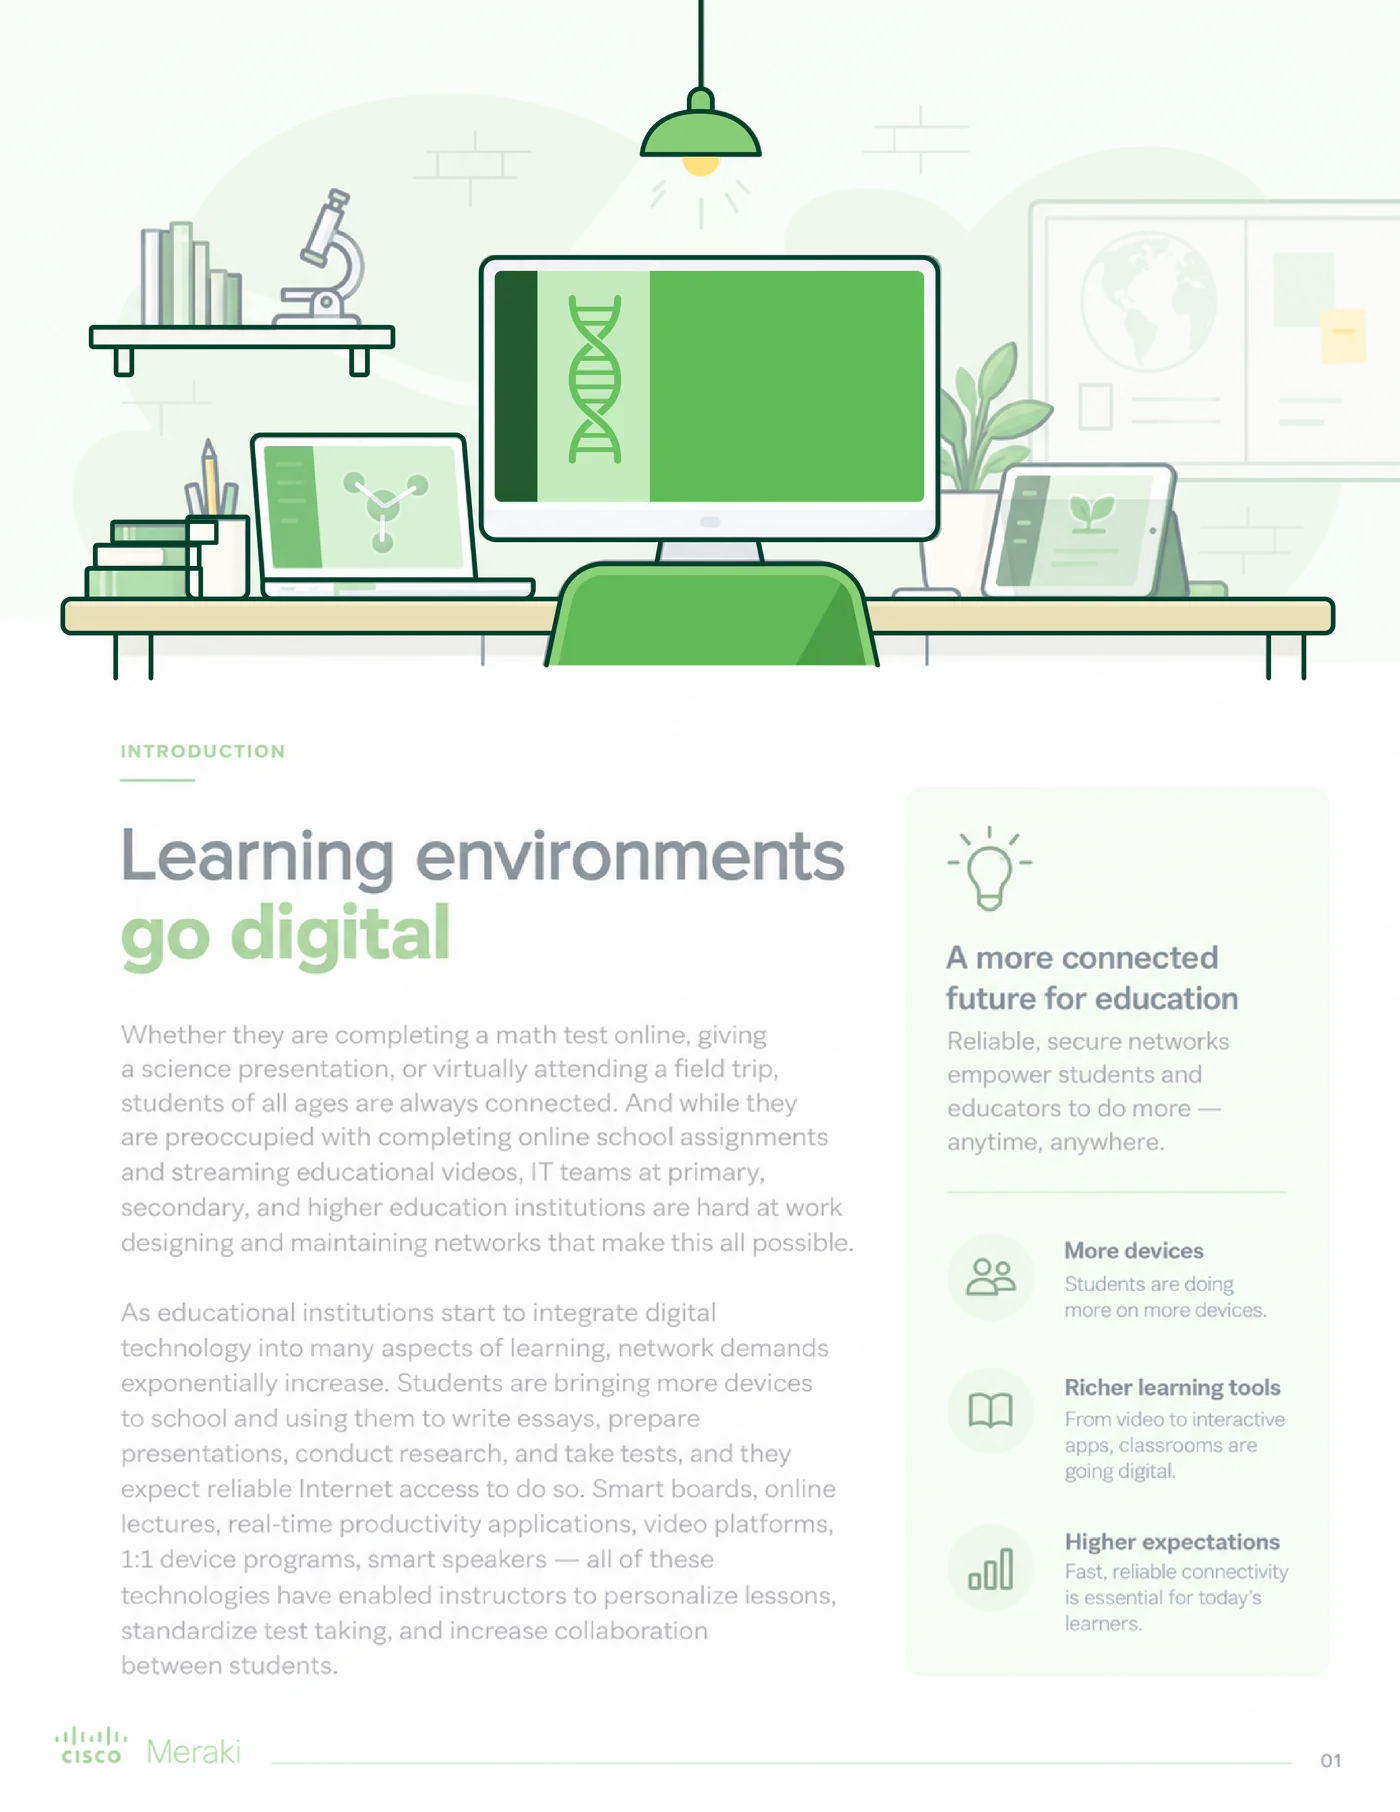
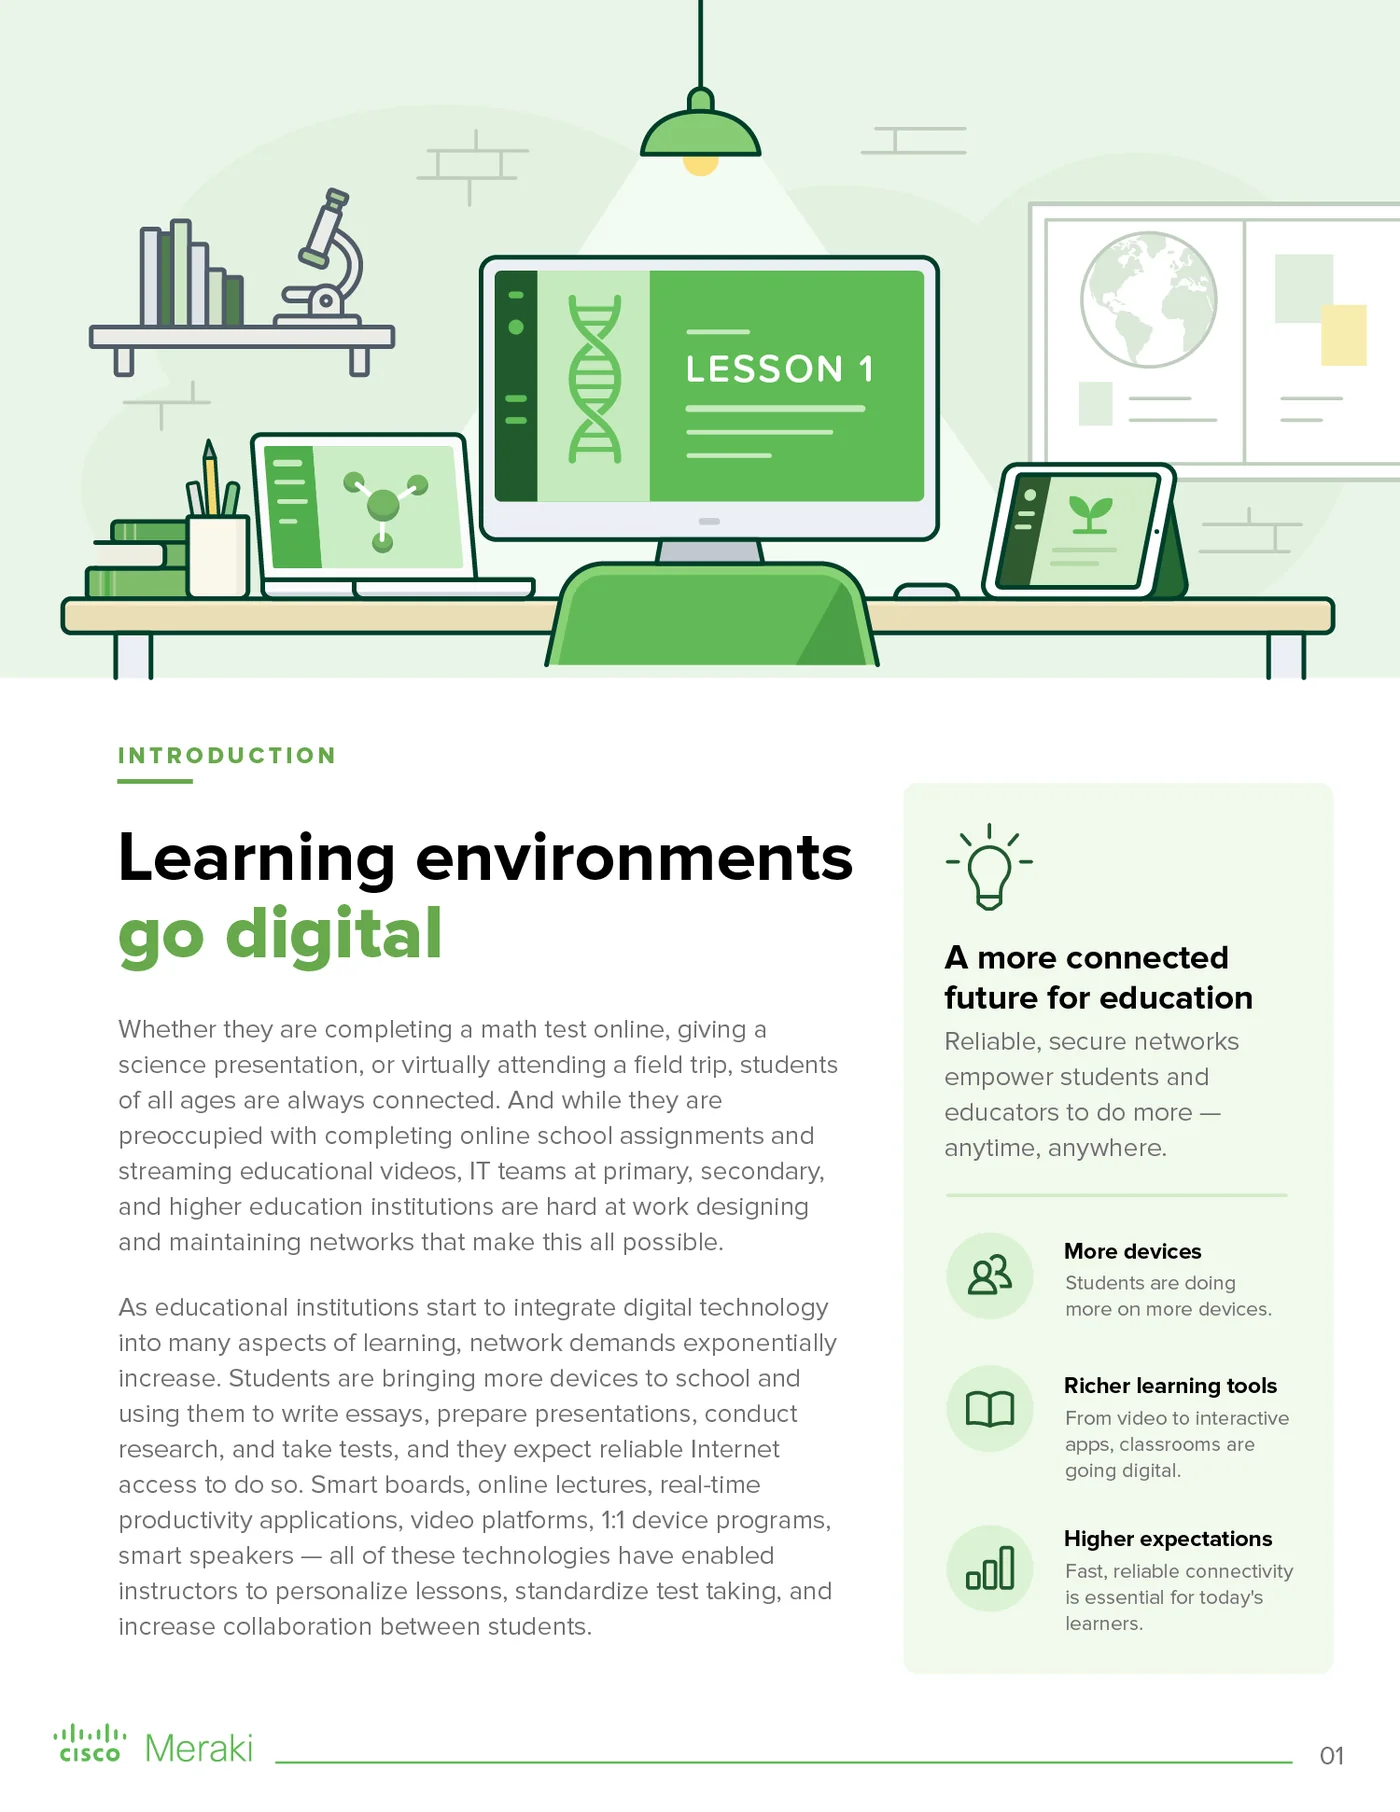
Meraki: new ebook intro page, green editorial eyebrow, page shadows
Claude-Session: https://claude.ai/code/session_01FHsoQx3wT7W51idVqZjGqu

diff --git a/css/case-study.css b/css/case-study.css
@@ -250,11 +250,11 @@
 .mk-campaigns .cs-copy{color:var(--graphite)}
 .mk-ads{width:100%;height:auto}
 .mk-editorial{--band:#faf9f3}
-.mk-editorial .cs-eyebrow{color:#f05554}
+.mk-editorial .cs-eyebrow{color:#4bb749}
 .mk-editorial .cs-h2{color:#2f4761}
 .mk-editorial .cs-copy{color:#49525d}
 .mk-ebook{display:flex;gap:50px;width:100%}
-.mk-ebook img{flex:1 1 0;min-width:0;height:auto}
+.mk-ebook img{flex:1 1 0;min-width:0;height:auto;box-shadow:0 15px 48px -24px rgba(0,0,0,.25)}
 .mk-email{--band:#edf2f4}
 .mk-email .cs-eyebrow{color:#4bb749}
 .mk-email .cs-h2{color:#2f4761}
